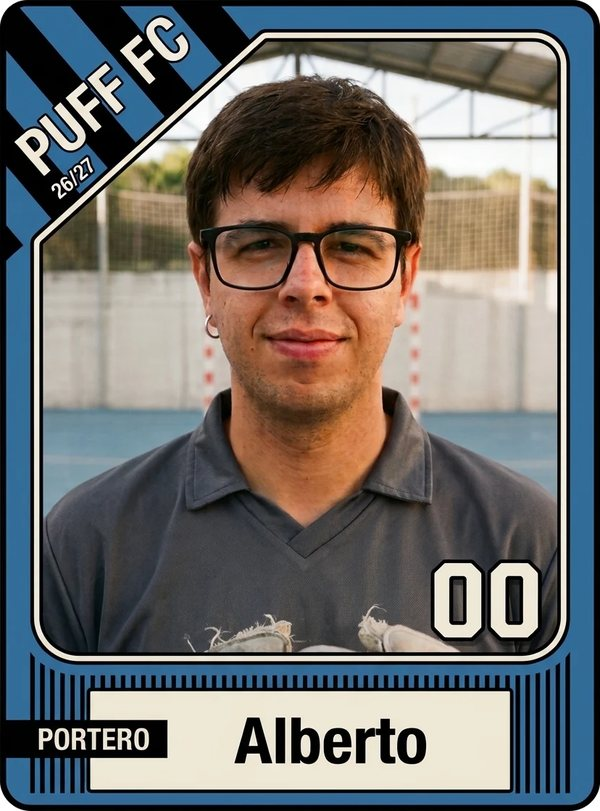
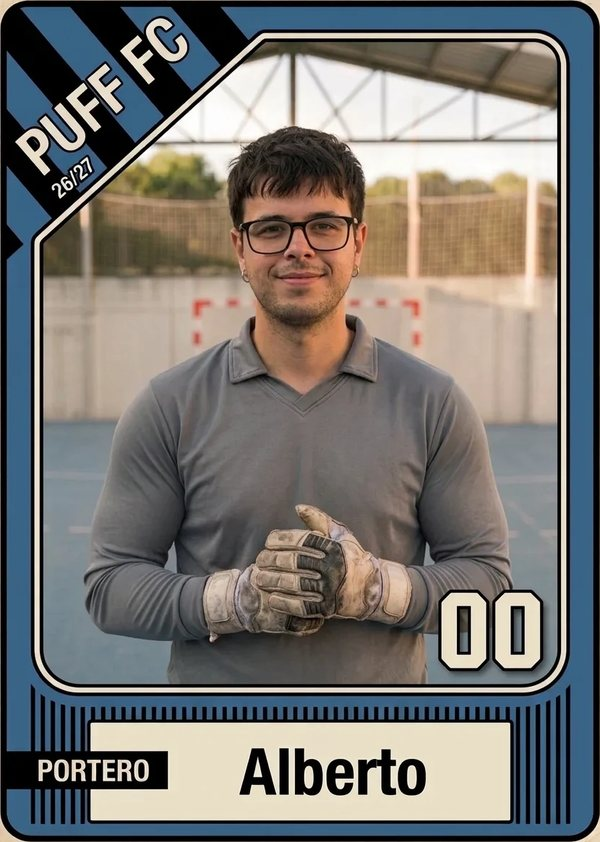
Nuevo cromo de Alberto
Claude-Session: https://claude.ai/code/session_014PoK5o7dCwy8scvQufdsyj

diff --git a/sw.js b/sw.js
@@ -1,6 +1,6 @@
 // Puff FC: modo sin conexión. La versión cambia en cada publicación.
 importScripts("https://cdn.onesignal.com/sdks/web/v16/OneSignalSDK.sw.js"); // avisos (OneSignal)
-const V="puff-20261126-191720";
+const V="puff-20261126-192610";
 const BASE=["./","index.html","manifest.webmanifest","icons/icon-192.png","icons/icon-512.png","icons/icon-180.png","icons/icon-32.png"];
 self.addEventListener("install",e=>{e.waitUntil(caches.open(V).then(c=>c.addAll(BASE)).then(()=>self.skipWaiting()))});
 self.addEventListener("activate",e=>{e.waitUntil(caches.keys().then(ks=>Promise.all(ks.filter(k=>k!==V).map(k=>caches.delete(k)))).then(()=>self.clients.claim()))});
